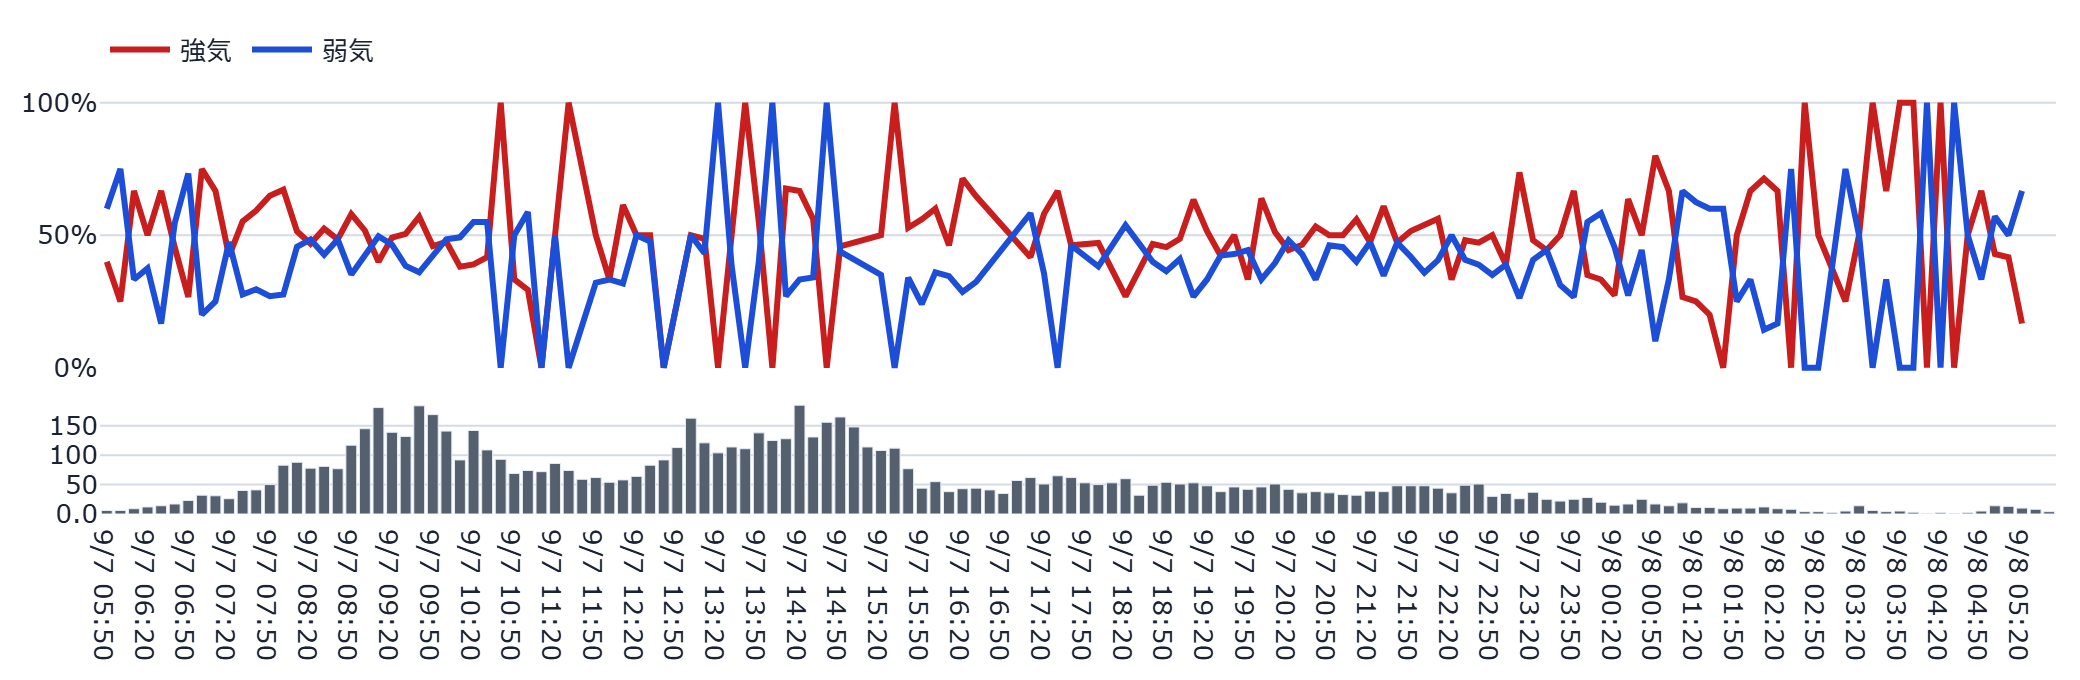
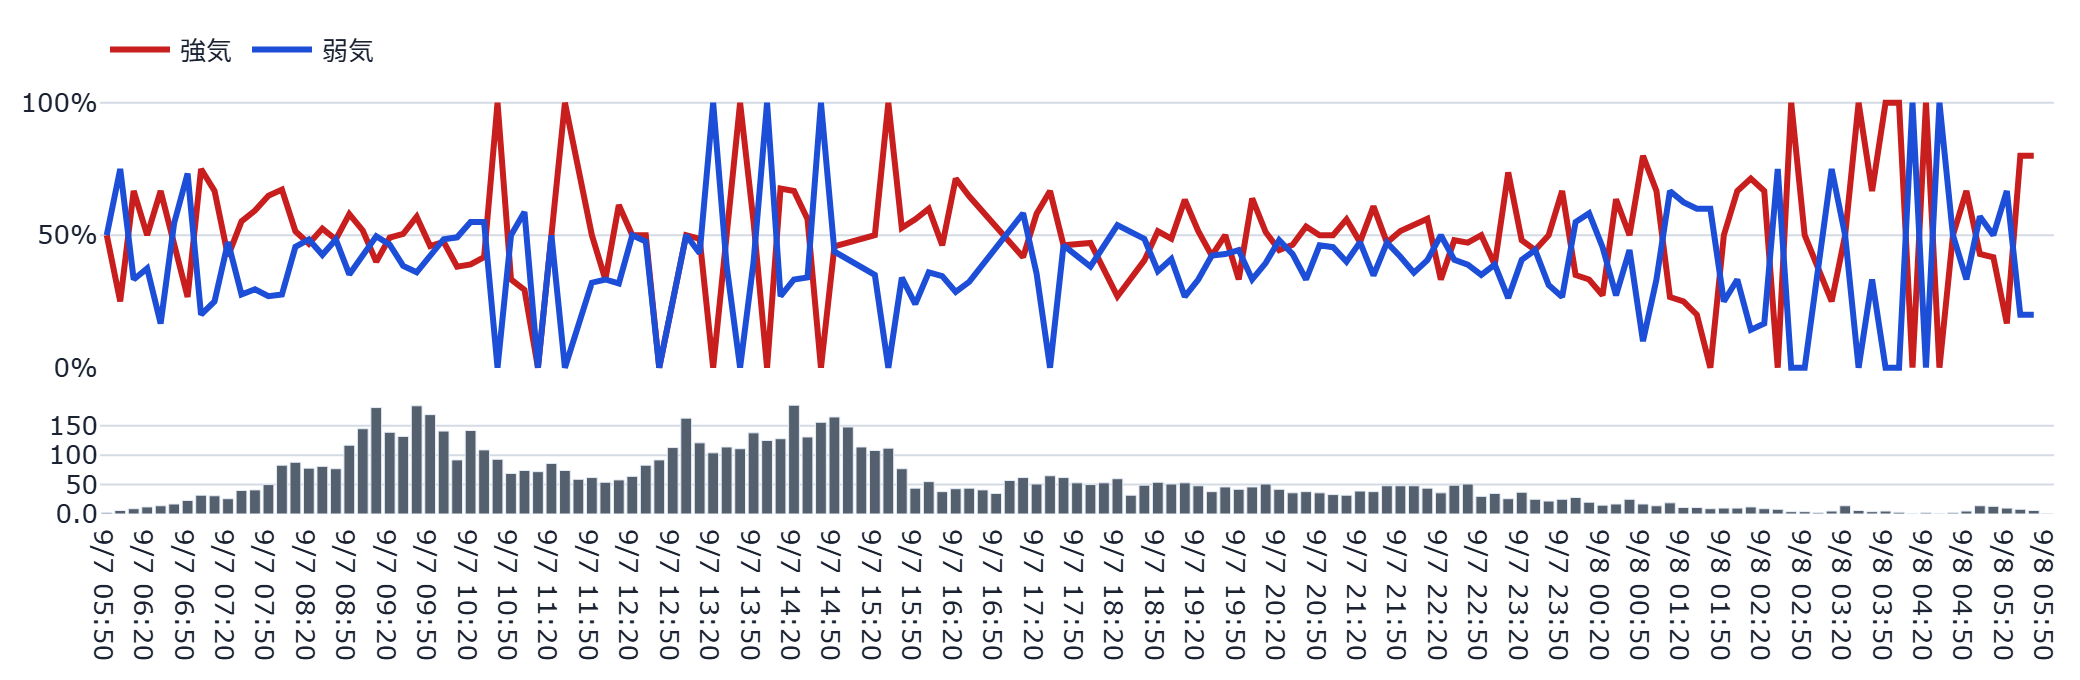
auto: refresh static dashboard (2026-09-08 06:02:26 JST)

Changed region(s): [[0.0625, 0.5868, 1.0, 0.9882], [0.0312, 0.1235, 1.0, 0.5559]]

diff --git a/docs/index.html b/docs/index.html
@@ -125,7 +125,7 @@
         <span class="price">59,530円</span>
         <span class="chg" style="color:#8B94A3">—</span>
       </div>
-      <p class="caption">更新時刻: 2026-09-08T05:51:29（データは1分間隔で自動生成され、このページも
+      <p class="caption">更新時刻: 2026-09-08T06:00:00（データは1分間隔で自動生成され、このページも
       60秒毎に自動再読み込みされます）</p>
       
       <p id='visit-count-badge' class='caption'>👀 累計閲覧数: 3,148</p>
@@ -223,22 +223,20 @@
       <div class="panel"><h3>掲示板センチメント×株価 統計評価（研究）</h3><table style='width:100%;border-collapse:collapse;font-size:.9em'><thead><tr><th style='text-align:left'>指標</th><th style='text-align:center'>翌1日</th><th style='text-align:center'>翌3日</th><th style='text-align:center'>翌5日</th></tr></thead><tbody><tr><td>売り煽り度</td><td style='text-align:center;font-weight:700;color:#15803D'>r=0.03<br>-5.42pt / t=-2.17</td><td style='text-align:center;font-weight:500;color:#15803D'>r=0.10<br>-6.31pt / t=-1.41</td><td style='text-align:center;font-weight:500;color:#15803D'>r=0.11<br>-5.48pt / t=-1.02</td></tr><tr><td>買い煽り度</td><td style='text-align:center;font-weight:500;color:#15803D'>r=0.27<br>+3.49pt / t=1.34</td><td style='text-align:center;font-weight:500;color:#15803D'>r=0.18<br>+1.89pt / t=0.41</td><td style='text-align:center;font-weight:500;color:#C81E1E'>r=-0.04<br>-2.27pt / t=-0.41</td></tr><tr><td>悲鳴・投げ売り度</td><td style='text-align:center;font-weight:500;color:#15803D'>r=0.08<br>+0.70pt / t=0.26</td><td style='text-align:center;font-weight:500;color:#C81E1E'>r=-0.00<br>-0.77pt / t=-0.17</td><td style='text-align:center;font-weight:500;color:#C81E1E'>r=-0.01<br>+2.18pt / t=0.40</td></tr><tr><td>強気比率</td><td style='text-align:center;font-weight:500;color:#15803D'>r=0.05<br>+3.03pt / t=1.15</td><td style='text-align:center;font-weight:500;color:#15803D'>r=0.05<br>+3.75pt / t=0.82</td><td style='text-align:center;font-weight:500;color:#15803D'>r=0.01<br>+0.18pt / t=0.03</td></tr><tr><td>投稿数(出来高)</td><td style='text-align:center;font-weight:500;color:#15803D'>r=0.19<br>+2.25pt / t=0.86</td><td style='text-align:center;font-weight:500;color:#15803D'>r=0.35<br>+0.23pt / t=0.05</td><td style='text-align:center;font-weight:500;color:#15803D'>r=0.23<br>+0.66pt / t=0.12</td></tr></tbody></table><p class='caption'>売り煽り度/買い煽り度/悲鳴・投げ売り度/強気比率/投稿数(出来高)の各指標と、翌1日/3日/5日リターンの相関係数r・中央値分割(高群-低群)の差(pt)・t値。<b>探索的分析であり確定した予測ではありません</b>。指標×ホライズンの多重比較(計15セル)であり、|t|が大きいセルも偶然の可能性を排除できません。色は相関係数rの符号(高群ほど翌日リターンが高い=緑・低い=赤)、|t|≥2程度を目安に太字で強調していますが、統計的に確定した優位性ではありません。データ期間: 2026-03-12~2026-09-04 / 算出日: 2026-09-07。正本の計算ロジック: research/comprehensive_stats.py。</p></div>
 
       <h2>🤖 AI考察</h2>
-      <div class='metric-row'><div class='metric-card'><div class='metric-label'>株価</div><div class='metric-value'>59,530円</div><div class='metric-delta'>+0円</div></div><div class='metric-card'><div class='metric-label'>強気比率</div><div class='metric-value'>45.7%</div><div class='metric-delta'>+0.0pt</div></div><div class='metric-card'><div class='metric-label'>弱気比率</div><div class='metric-value'>43.8%</div><div class='metric-delta'>+0.0pt</div></div></div><p class='caption'>前回集計(2026-09-08T05:42:17)との比較</p>
-      <div class='ai-box'>本日の寄り付き前におけるキオクシアホールディングス（285A）の掲示板センチメントデータに基づき、現状の市場心理を客観的に分析します。<br>
+      <div class='metric-row'><div class='metric-card'><div class='metric-label'>株価</div><div class='metric-value'>59,530円</div><div class='metric-delta'>+0円</div></div><div class='metric-card'><div class='metric-label'>強気比率</div><div class='metric-value'>47.3%</div><div class='metric-delta'>+1.6pt</div></div><div class='metric-card'><div class='metric-label'>弱気比率</div><div class='metric-value'>42.7%</div><div class='metric-delta'>-1.1pt</div></div></div><p class='caption'>前回集計(2026-09-08T05:51:29)との比較</p>
+      <div class='ai-box'>キオクシアホールディングス（285A）に関する掲示板の集計センチメントデータに基づき、寄り付き前の現状を分析します。<br>
 <br>
-まず注目すべきは、価格推移とセンチメントの相関です。直近の日次推移を見ると、8月後半から9月にかけて価格が上昇傾向にある中で、強気比率は概ね40%〜50%の間で推移しており、極端な強気の偏りは見られません。前営業日の終値（59,530円）に対し、現在の過熱度スコアは6.6と低水準に留まっており、価格の上昇に対して掲示板上の反応が「熱狂」に至っていない現状がうかがえます。<br>
+前営業日の終値（59,530円）を基準とした直近の推移を見ると、価格は上昇傾向にあり、強気比率も前回取引日と比較して高水準で推移しています。特に8月下旬から9月に入り、価格の上昇と強気派の増加が連動する「トレンド型」の動きを見せています。<br>
 <br>
-一方で、シグナル発火状況には特筆すべき変化が見られます。前回取引日と比較して「ネームド集中」と「話題枯れ」の双方が発火状態にあります。これは、投稿数自体が統計的に閑散としている（z=-1.17）中で、特定の少数のユーザーによる意見が相対的に大きなシェアを占めていることを示唆しています。活発な議論が行われているというよりも、関心が一時的に薄れているか、あるいは特定の層による限定的な反応に集約されている可能性が考えられます。<br>
+現在のセンチメントを読み解く上で注目すべきは、投稿量の推移とシグナル発火の組み合わせです。現在、投稿数は減少傾向にあり、「話題枯れ」のシグナルが発火しています。これは、急激な価格上昇や大きな材料に対する反応が一巡し、掲示板内での活発な議論が一時的に落ち着いている状態を示唆しています。一方で「ネームド集中」も発火しており、特定の少数の意見や存在が議論の比重を占めている可能性が見て取れます。過熱度スコア（6.6）や暴落煽り語彙などの指標は依然として平常範囲内にあることから、掲示板上ではパニック的な高揚感や極端な悲観論には至っておらず、落ち着いた（あるいは静かな）状況にあると推測されます。<br>
 <br>
-また、ボラティリティ・レジームは現在「calibrating（較正中）」となっており、現在の価格変動の激しさを測るための基準を構築している段階です。この不安定なレジーム状況に対し、強気・弱気比率がほぼ拮抗（45.7%対43.8%）している点は、投資家心理がまだ明確な方向性を定めていない、あるいは慎重に様子見をしている姿勢と整合していると言えます。<br>
+ボラティリティのレジーム帯については現在「calibrating（較正中）」となっており、現在の値動きの変動幅を確定させる過程にあります。このため、センチメントの強さとボラティリティの関係性を断定的に捉えることは難しい状況ですが、前回の集計時点と比較すると、短時間で強気比率が微増し弱気比率が減少していることから、現時点ではやや強気の姿勢が維持されていることが伺えます。<br>
 <br>
-なお、PTSでは前日終値からわずかに下落する動きを見せています。本日の値動きの型は「トレンド型」と分類されていますが、予測の裾の広さは「普段並み」であり、極端な不確実性が高まっている状況ではありません。短時間の前回集計との比較では、価格や比率に変化はなく、静かな推移を維持しています。<br>
-<br>
-本分析は掲示板の集計センチメントデータに基づく分析であり、投資助言ではありません。</div><p class='caption'>生成時刻: 2026-09-08T05:51:29</p>
+なお、夜間取引（PTS）では前営業日の終値からわずかに下落しており、寄り付きに向けた市場の反応を注視する材料となります。本分析は掲示板の集計センチメントデータに基づく分析であり、投資助言ではありません。</div><p class='caption'>生成時刻: 2026-09-08T06:00:00</p>
 
       <hr style="border:none;border-top:1px solid var(--border);margin:2rem 0 1rem">
       <p class="caption">⚠ 本情報は掲示板投稿を統計的に集計したものであり、投資助言ではありません。個別の投稿内容は含まれていません。研究・エンタメ用途です。</p>
-      <footer>生成: generate_static_dashboard.py（2026-09-08T06:00:18） /
+      <footer>生成: generate_static_dashboard.py（2026-09-08T06:02:15） /
       画像バックエンド: plotly+kaleido</footer>
     </div>
     <script>(function(){var url="https://script.google.com/macros/s/AKfycbwgSSGQ2n56ohmIYKlNDA1Xe3D8hd3GJbD0U90L4DGtXdb8pqrPokNMHJWjvN1__7bE/exec";var KEY='bbs_visit_counted';var already=sessionStorage.getItem(KEY);var action=already?'read':'hit';var ctrl=(typeof AbortController!=='undefined')?new AbortController():null;var timer=ctrl?setTimeout(function(){ctrl.abort();},5000):null;fetch(url+'?action='+action,{signal:ctrl?ctrl.signal:undefined}).then(function(r){if(timer)clearTimeout(timer);return r.json();}).then(function(data){if(!already)sessionStorage.setItem(KEY,'1');if(data&&typeof data.count==='number'){var el=document.getElementById('visit-count-badge');if(el){el.textContent='\u{1F440} \u7d2f\u8a08\u95b2\u89a7\u6570: '+data.count.toLocaleString();el.style.display='';}}}).catch(function(e){if(timer)clearTimeout(timer);console.warn('visit counter fetch failed (fail-soft):',e);});})();</script><script>(function(){var url="https://script.google.com/macros/s/AKfycbwgSSGQ2n56ohmIYKlNDA1Xe3D8hd3GJbD0U90L4DGtXdb8pqrPokNMHJWjvN1__7bE/exec";var KEY='bbs_liked';var btn=document.getElementById('like-button');var label=document.getElementById('like-count-label');if(!btn||!label)return;function renderLiked(count){btn.disabled=true;btn.style.cursor='default';btn.style.opacity='0.6';btn.textContent='\u2705';label.textContent="\u3044\u3044\u306d\u3057\u307e\u3057\u305f\uff01"+(typeof count==='number'?"\uff08\u7d2f\u8a08 "+count.toLocaleString()+" \u3044\u3044\u306d\uff09":'');}if(localStorage.getItem(KEY)){renderLiked(null);}btn.addEventListener('click',function(){if(localStorage.getItem(KEY))return;btn.disabled=true;var ctrl=(typeof AbortController!=='undefined')?new AbortController():null;var timer=ctrl?setTimeout(function(){ctrl.abort();},5000):null;fetch(url+'?action=like_hit',{signal:ctrl?ctrl.signal:undefined}).then(function(r){if(timer)clearTimeout(timer);return r.json();}).then(function(data){localStorage.setItem(KEY,'1');renderLiked(data&&typeof data.count==='number'?data.count:null);}).catch(function(e){if(timer)clearTimeout(timer);btn.disabled=false;console.warn('like button fetch failed (fail-soft):',e);});});})();</script></body></html>
